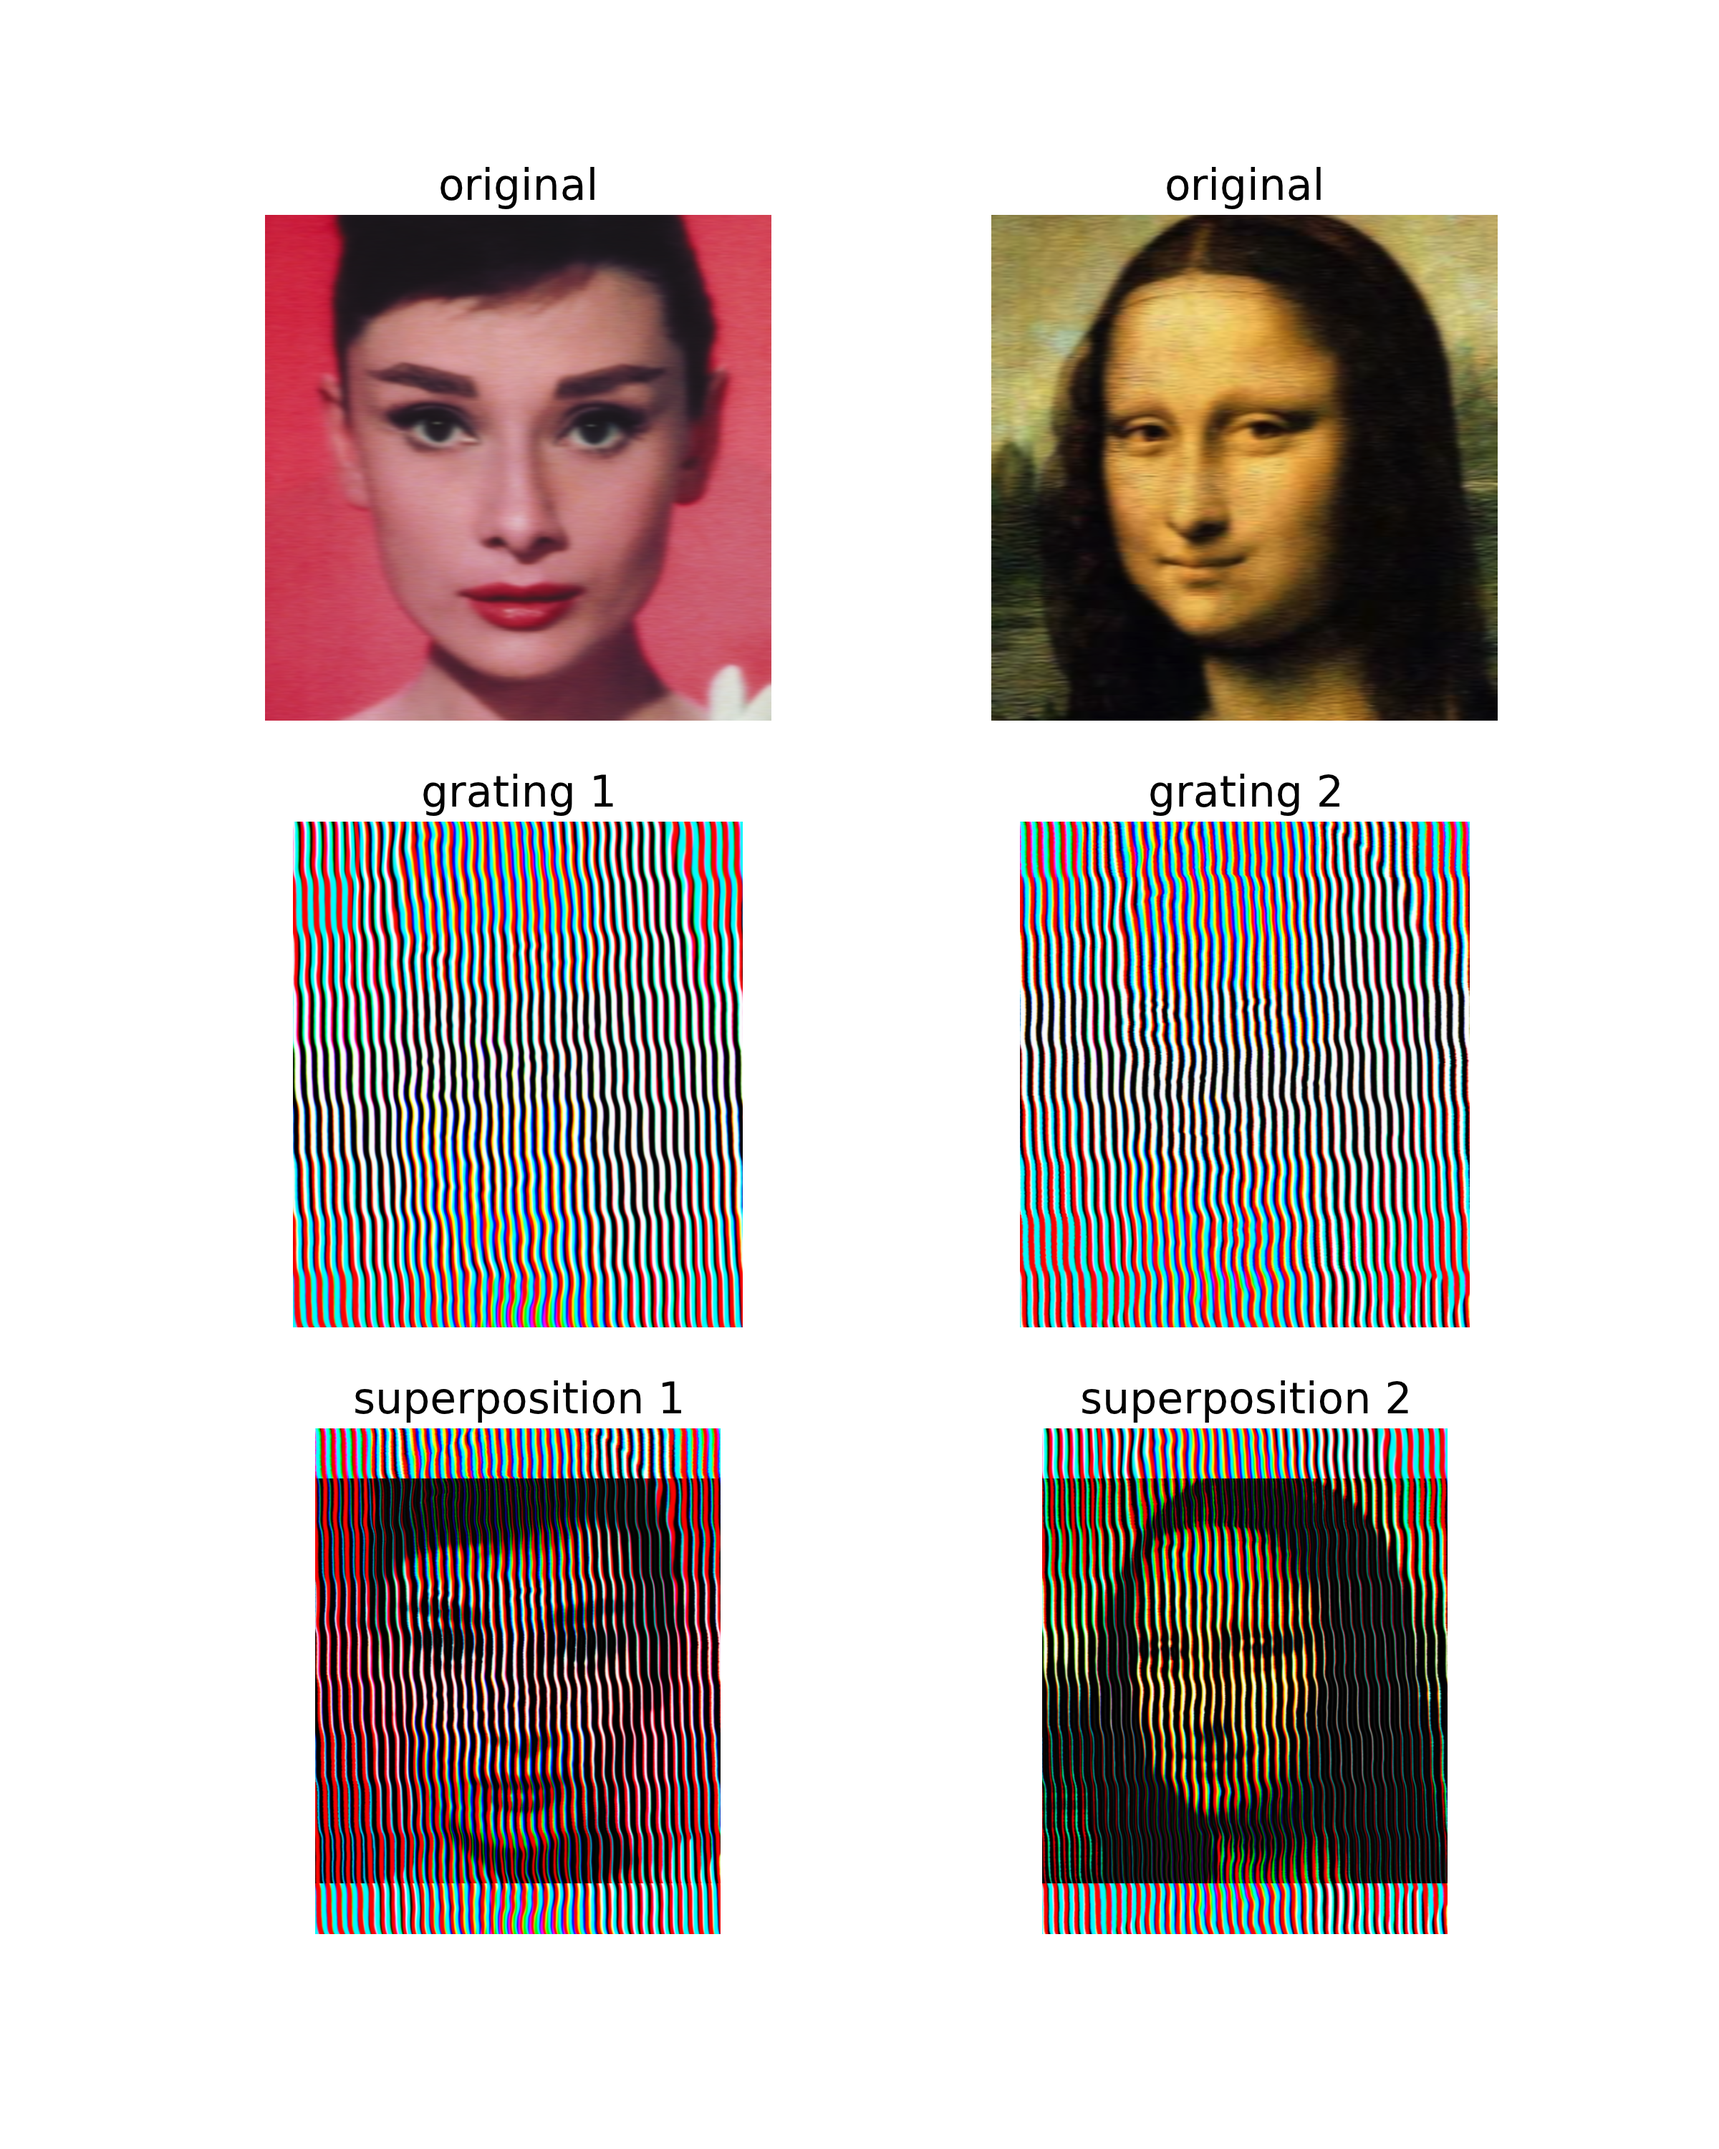
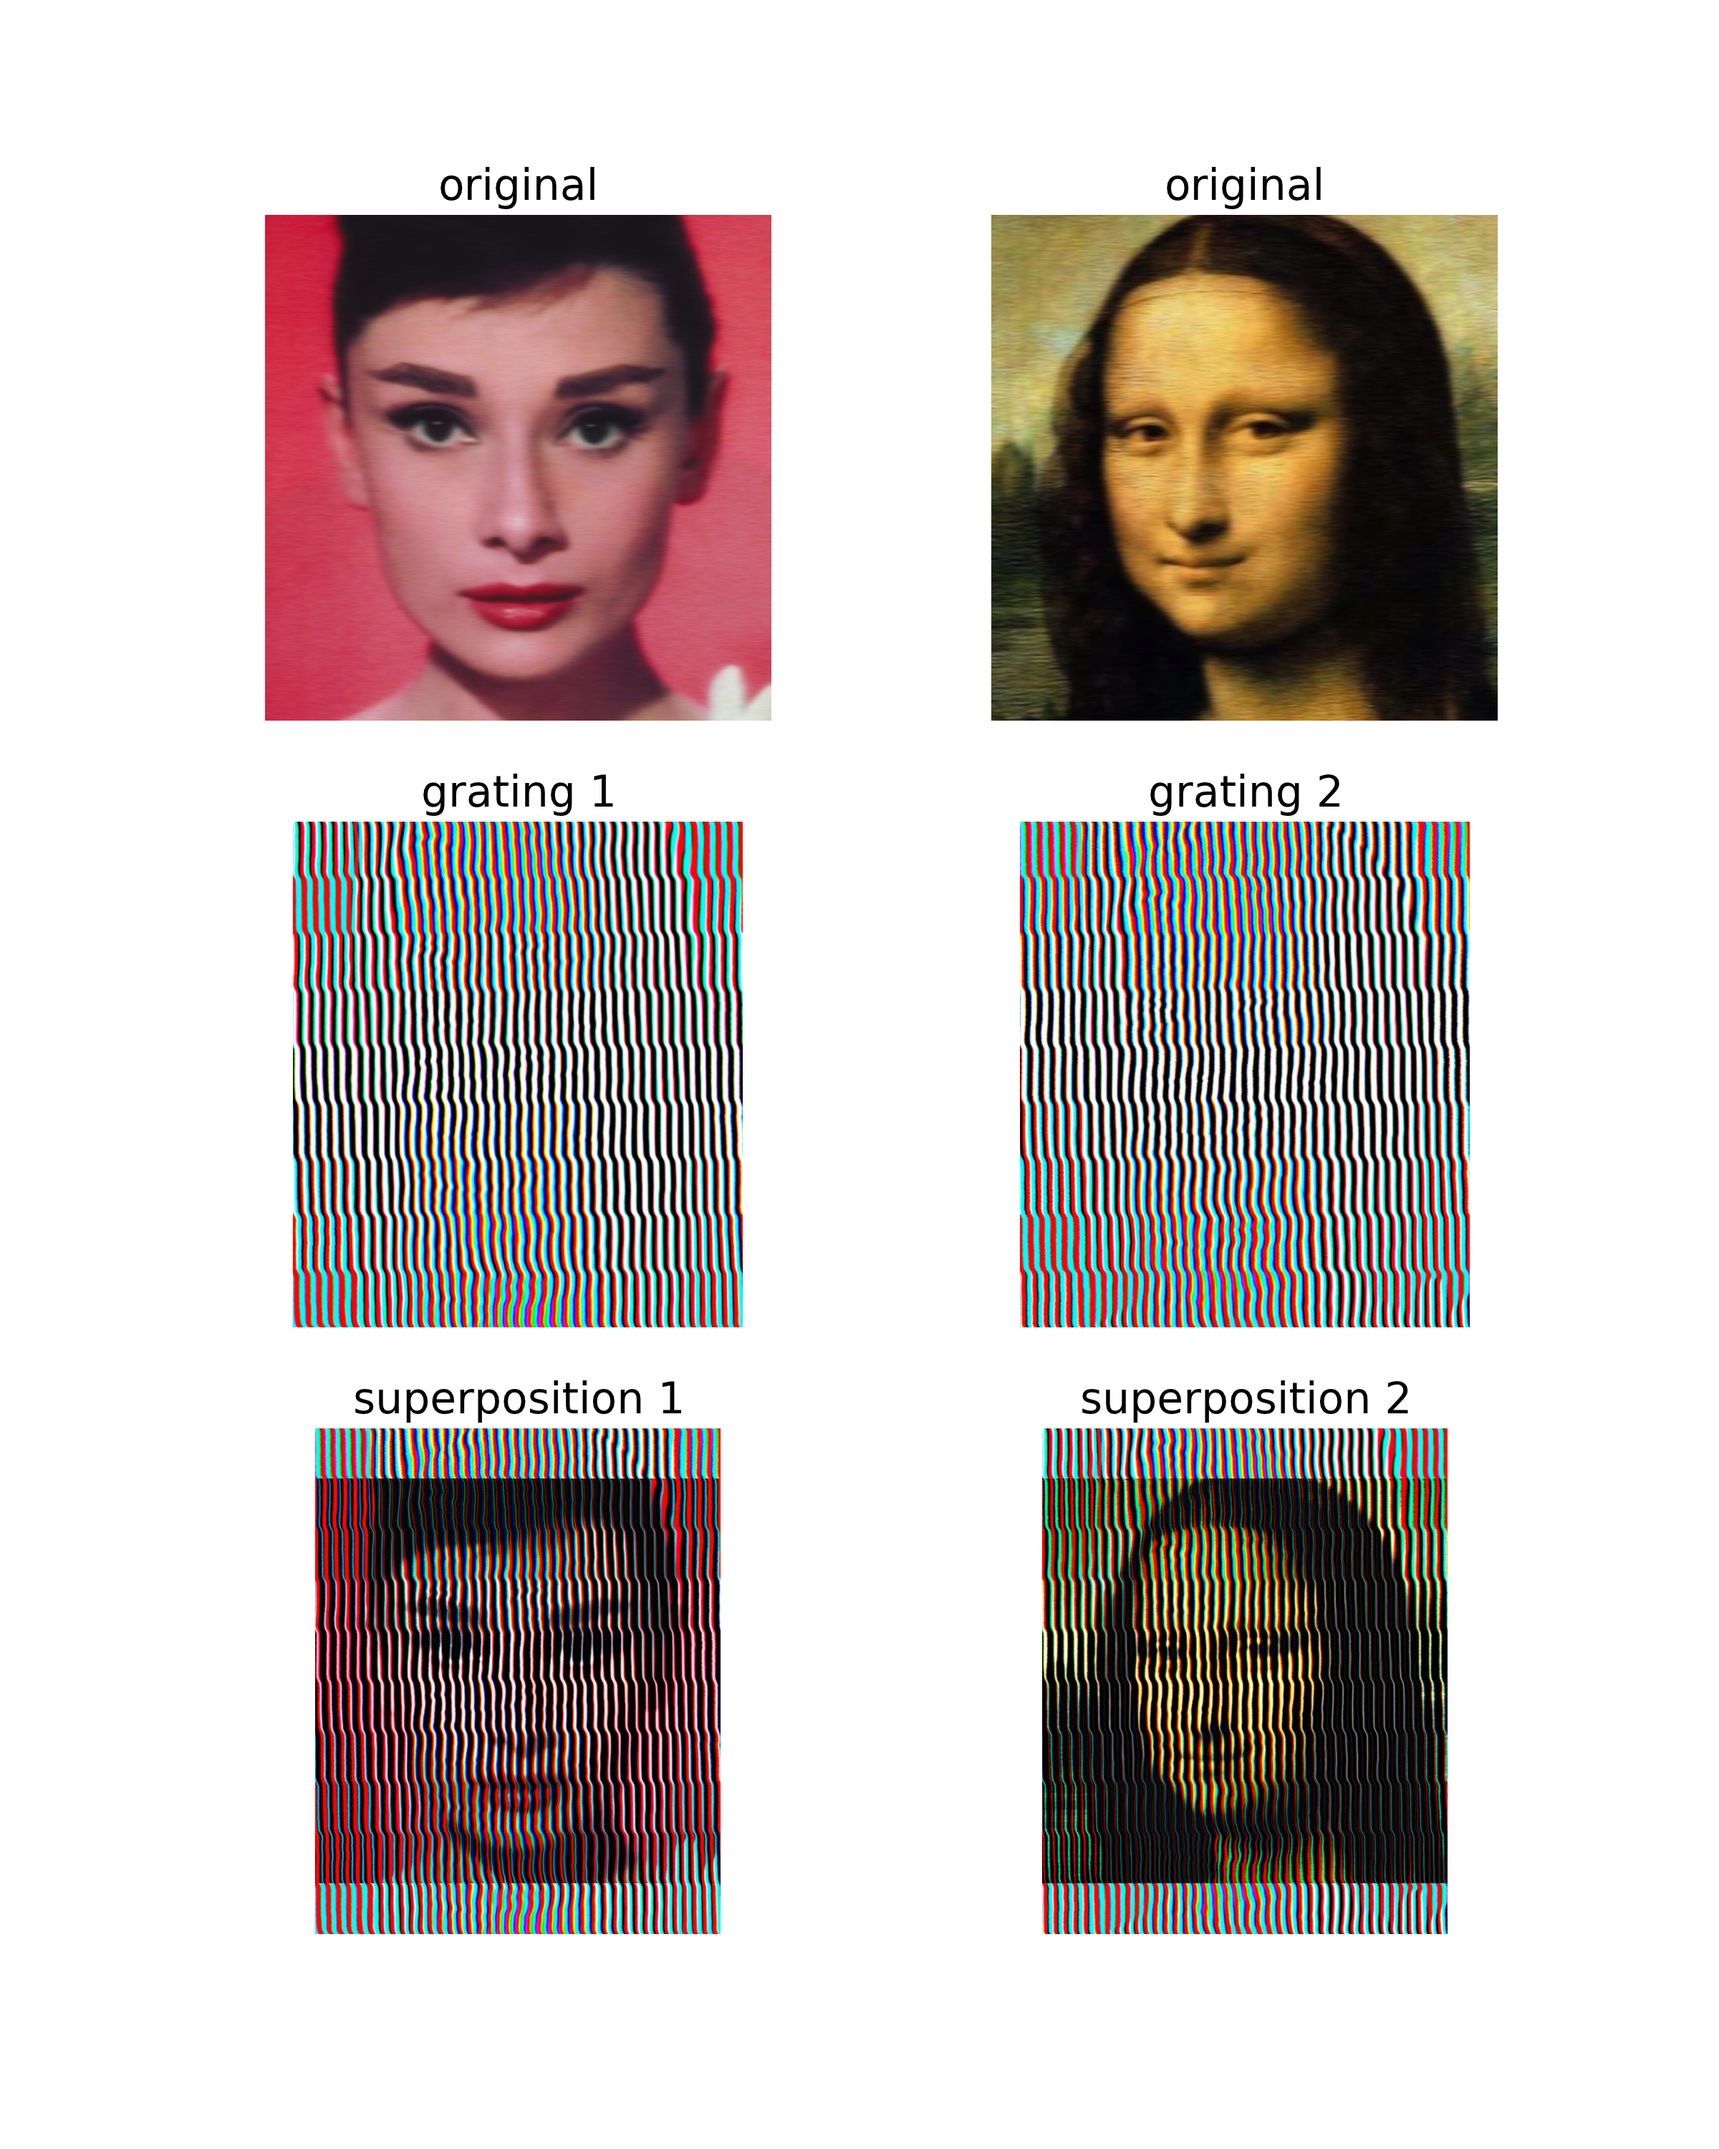
moved common functions to moirelib.py

diff --git a/moire2.py b/moire2.py
@@ -1,86 +1,59 @@
-import numpy as np
-import matplotlib.pyplot as mp
-import scipy.ndimage.filters as ndfilt
-import scipy.ndimage.interpolation as ndint
+"""
+Simple moire with two gratings encoding two color images
+"""
+import moirelib as m
 
-T = 1./40        # grating period as fraction of image width
-mag = 2          # image upsamping factor
-offset = 1./8    # superposition offset
-hsigma = T/4.     # sigma for gaussian smoothing along horizontal dimension
+T = 1./40  # grating period as fraction of image width
+offset = 1./8  # offset as a fraction of the image height
 
-def grating(phaseImage):
-    """ 
-    Convert phaseImage into grating image scaled between 0 and 1
-    """
-    return 1/(1+np.exp(5*np.cos(2*np.pi*phaseImage)))
+print 'Loading images...'
+img = (
+    m.prepImage('audrey', mag=4, sigma=(0,T/4,0)), 
+    m.prepImage('mona',   mag=4, sigma=(0,T/4,0))
+    )
+fig = m.figure(figsize=(8,10))
+m.show(img[0], 321, 'original')
+m.show(img[1], 322, 'original')
 
-
-def show(sub, img, title):
-    """
-    paste image in figure
-    """
-    mp.subplot(sub)
-    mp.imshow(img)
-    mp.axis('off')
-    mp.title(title)
-
-
-# load original images, smooth, upsample, and display
-img1 = mp.imread('./images/audrey512.png')
-img2 = mp.imread('./images/mona512.png')
-height, width, depth = img1.shape    # images are assumed to be equal in size
-img1 = ndfilt.gaussian_filter1d(img1, sigma=hsigma*width, axis=1)
-img2 = ndfilt.gaussian_filter1d(img2, sigma=hsigma*width, axis=1)
-img1 = ndint.zoom(img1,(mag,mag,1))
-img2 = ndint.zoom(img2,(mag,mag,1))
-
-fig = mp.figure(figsize=(8,10))
-show(321, img1, 'original')
-show(322, img2, 'original')
-
-# convert parameters to pixels
-height, width, depth = img1.shape
-T = round(T*width)  
-offset = round(offset*height)
-
-# carrier phase image: horizontal gradient with slope 1/T
-g1 = np.fromfunction(lambda y,x,d: x/T, (height+offset, width, depth))
+print 'generating gratings...'
+offset = round(offset*img[0].shape[0])  # convert to pixels
+dims = img[0].shape
+dims = (dims[0]+offset,dims[1],dims[2])
+g1 = m.makeCarrier(dims, T)
 g2 = g1.copy()
 
 # iterative adjustment of gratings to images
 L = 0.04       # learning rate
 niter = 501    # of iterations
-maxCurvature = 0.001/T  # controls grating smoothness
 
 for i in range(niter):
     if i % 25 == 0:
         print "iteration [%4d/%4d]" % (i, niter)
 
     # update gratings
-    err1 = (1-img1)/2 - (g1[:-offset,:,:] - g2[offset:,:,:])
-    err2 = (1-img2)/2 - (g2[:-offset,:,:] - g1[offset:,:,:])
+    err1 = (1-img[0])/2 - (g1[:-offset,:,:] - g2[offset:,:,:])
+    err2 = (1-img[1])/2 - (g2[:-offset,:,:] - g1[offset:,:,:])
     g1[:-offset,:,:] += L*err1
     g2[offset:,:,:] -= L*err1
     g2[:-offset,:,:] += L*err2
     g1[offset:,:,:] -= L*err2
 
     # enforce grating smoothness by clipping the laplacian
-    avg = (g1[2:,:,:]+g1[:-2,:,:])/2
-    g1[1:-1,:,:] = g1[1:-1,:,:].clip(avg-maxCurvature, avg+maxCurvature)
+    g1 = m.smoothenPhase(g1, 1e-4/T)
 
 print 'saving image...'
-g1 = grating(g1)
-g2 = grating(g2)
+g1 = m.makeGrating(g1)
+g2 = m.makeGrating(g2)
 
 # visualize gratings 
-show(323, g1, 'grating 1')
-show(324, g2, 'grating 2')
+m.show(g1, 323, 'grating 1')
+m.show(g2, 324, 'grating 2')
 
 # visualize superpositions
-e = np.ones((offset, width, depth))
-s1 = np.vstack((e, g1))*np.vstack((g2, e)) 
-s2 = np.vstack((e, g2))*np.vstack((g1, e))
-show(325, s1, 'superposition 1')
-show(326, s2, 'superposition 2')
+e = m.ones((offset, dims[1], dims[2]))
+s1 = m.vstack((e, g1))*m.vstack((g2, e)) 
+s2 = m.vstack((e, g2))*m.vstack((g1, e))
+m.show(s1, 325, 'superposition 1')
+m.show(s2, 326, 'superposition 2')
 
 fig.savefig('./results/moire2.png', dpi=300)

diff --git a/moire3.py b/moire3.py
@@ -1,53 +1,25 @@
-import numpy as np
-import matplotlib.pyplot as mp
-import scipy.ndimage.filters as ndfilt
-import scipy.ndimage.interpolation as ndint
+"""
+A simple moire encoding a single image with two identical gratings 
+"""
 
+import moirelib as m
 
-T = 1./40        # grating period as fraction of image width
-mag = 2          # image upsamping factor
+T = 1./40        # grating period
 offset = 1./8    # superposition offset
-hsigma = T/4     # sigma for gaussian smoothing along horizontal dimension
 
-
-def grating(phaseImage):
-    """ 
-    Convert phaseImage into grating image scaled between 0 and 1
-    """
-    return 1/(1+np.exp(5*np.cos(2*np.pi*phaseImage)))
-
-
-def show(sub, img, title):
-    """
-    display the image
-    """
-    mp.subplot(sub)
-    mp.imshow(img)
-    mp.axis('off')
-    mp.title(title)
-
-
-# load original image, smooth, upsample, and display
-img = mp.imread('./images/audrey512.png')
-height, width, depth = img.shape
-img = ndfilt.gaussian_filter1d(img, sigma=hsigma*width, axis=1)
-img = ndint.zoom(img,(mag,mag,1))
-
-fig = mp.figure(figsize=(8,10))
-show(311, img, 'original')
-
-# convert parameters to pixels
-height, width, depth = img.shape
-T = round(T*width)
-offset = round(offset*height)
+print 'pre-processing images...'
+img = m.prepImage('audrey', mag=4, sigma=(0,T/4., 0))
+fig = m.figure(figsize=(8,10))
+m.show(img, 311, 'original')
 
 # carrier phase image: horizontal gradient with slope 1/T
-g = np.fromfunction(lambda y,x,d: x/T, (height+offset,width,3))
+offset = round(offset*img.shape[0])  # convert to pixels
+dims = (img.shape[0]+offset, img.shape[1], img.shape[2])
+g = m.makeCarrier(dims, T)
 
-# iterative adjustment of gratings to images
+print 'computing gratings...'
 L = 0.04    # learning rate
 niter = 501   # of iterations
-maxCurvature = 0.001/T
 
 for i in range(niter):
     if i % 25 == 0:
@@ -57,20 +29,17 @@ for i in range(niter):
     err = (1-img)/2 - (g[0:-offset,:,:] - g[offset:,:,:])
     g[0:-offset,:,:] += L*err
     g[offset:,:,:]   -= L*err
-
-    # enforce grating smoothness by clipping the laplacian
-    avg = (g[2:,:,:]+g[:-2,:,:])/2
-    g[1:-1,:,:] = g[1:-1,:,:].clip(avg-maxCurvature, avg+maxCurvature)
+    g = m.smoothenPhase(g, 1e-4/T)
 
 print 'saving image...'
-g = grating(g)
+g = m.makeGrating(g)
 
 # visualize gratings 
-show(312, g, 'grating')
+m.show(g, 312, 'grating')
 
 # visualize superpositions
-e = np.ones((offset, width, depth))
-s = np.vstack((e, g))*np.vstack((g, e)) 
-show(313, s, 'superposition')
+e = m.ones((offset, img.shape[1], img.shape[2]))
+s = m.vstack((e, g))*m.vstack((g, e)) 
+m.show(s, 313, 'superposition')
 
 fig.savefig('./results/moire3.png', dpi=300)

diff --git a/moire1.py b/moire1.py
@@ -1,59 +1,31 @@
-import numpy as np
-import matplotlib.pyplot as mp
-import scipy.ndimage.filters as ndfilt
-import scipy.ndimage.interpolation as ndint
+"""
+Simple moire with a single color image
+"""
 
-T = 1./40        # grating period as fraction of image width
-mag = 2          # image upsamping factor
-hsigma = T/4.   # sigma for gaussian smoothing along horizontal dimension
+import moirelib as m
 
-def grating(phaseImage):
-    """
-    Convert phaseImage into grating image scaled between 0 and 1
-    """
-    return 1/(1+np.exp(5*np.cos(2*np.pi*phaseImage)))
+T = 1./40        # grating period
 
-def show(sub, img, title):
-    """
-    paste image in figure
-    """
-    mp.subplot(sub)
-    mp.imshow(img)
-    mp.axis('off')
-    mp.title(title)
-
-# load image and magnify
 print 'pre-processing images...'
-img = mp.imread('./images/audrey512.png')
-img = ndint.zoom(img, (mag, mag, 1))
-T = T*img.shape[1]   # convert to pixels
-img = ndfilt.gaussian_filter1d(img, sigma=hsigma*img.shape[1], axis=1)
+img = m.prepImage('audrey', mag=2, sigma=(0,T/4., 0))
+fig = m.figure(figsize=(8,10))
+m.show(img, 311, 'original')
 
-fig = mp.figure(figsize=(8,10))
-show(311, img, 'original')
-
-# generate gratings
 print 'generating gratings...'
-carrier = np.fromfunction(lambda y,x,d: x/T, img.shape) 
+carrier = m.makeCarrier(img.shape, T)
 g1 = carrier-(1-img)/4
 g2 = carrier+(1-img)/4
 
-# enforce grating smoothness by clipping the laplacian
-print 'smoothing...'
-maxCurvature = 1e-3/T
-for i in range(100):
-    avg = (g1[2:,:,:]+g1[:-2,:,:])/2
-    g1[1:-1,:,:] = g1[1:-1,:,:].clip(avg-maxCurvature, avg+maxCurvature)
-    avg = (g2[2:,:,:]+g2[:-2,:,:])/2
-    g2[1:-1,:,:] = g2[1:-1,:,:].clip(avg-maxCurvature, avg+maxCurvature)
+print 'smoothing phase...'
+g1 = m.smoothenPhase(g1, 1e-3/T, 50)
+g2 = m.smoothenPhase(g2, 1e-3/T, 50)
 
-g1 = grating(g1)
-g2 = grating(g2)
-
-# visualize gratings and their superposition
 print 'saving images...'
-show(323, g1, 'grating 1')
-show(324, g2, 'grating 2')
-show(313, g1*g2, 'superposition')
+g1 = m.makeGrating(g1)
+g2 = m.makeGrating(g2)
+m.show(g1,323, 'grating 1')
+m.show(g2,324, 'grating 2')
+m.show(g1*g2, 313, 'superposition')
 
 fig.savefig('./results/moire1.png', dpi=300)
+

diff --git a/moirelib.py b/moirelib.py
@@ -1,0 +1,79 @@
+from numpy import *
+from matplotlib.pyplot import *
+import scipy.ndimage.filters as filters
+import scipy.ndimage.interpolation as interpolation
+
+
+def prepImage(name='audrey', mag=4, sigma=(0,1./40,0)):
+    """
+    read image, smooth with specified sigma, and magnify
+
+    Inputs:
+        name - filname or one of {'audrey','mona','lenna','einstein'}
+        mag - upsample factor
+        sigma - gaussian smoothing in each dimension as fraction of image width
+    """
+
+    try:
+        path = dict( 
+            audrey = './images/audrey512.png',
+            mona   = './images/mona512.png',
+            lenna =  './images/Lenna.png',
+            einstein = './images/einstein512.png'
+        )[name]
+    except KeyError:
+        path = name
+
+    img = imread(path)
+    img = filters.gaussian_filter(img, sigma=[x*img.shape[1] for x in sigma])
+    img = interpolation.zoom(img, (mag,mag,1)) 
+    return img
+
+
+
+def makeGrating(phaseImage):
+    """ 
+    Convert phaseImage into grating image scaled between 0 and 1
+    """
+    return 1/(1+exp(5*cos(2*pi*phaseImage)))
+
+
+
+def show(img, sub=111, plotTitle=''):
+    """
+    paste image in figure
+    """
+    subplot(sub)
+    imshow(img)
+    axis('off')
+    title(plotTitle)
+
+
+
+def makeCarrier(dims=(800,600,3), period=1./20, axis=1, type='uniform'):
+    """
+    make the carrier phase image  
+    INPUTS:
+        dims - dimensions in pixels (y,x), or (y,x,3)
+        period - grating period as fraction of dims[1]
+        axis - 0=horizontal, 1=vertical grating
+        type - only 'uniform' for now
+    """
+    if type=='uniform':
+        g = fromfunction(lambda y,x,d: x/float64(period)/dims[1], dims)
+    else:
+        raise Exception('unknown carrier type') 
+    return g
+
+
+
+def smoothenPhase(img, maxLaplacian, niter=1):
+    """
+    enforce grating smoothness by clipping the laplacian
+    of the phase image
+    """
+    lim = maxLaplacian/img.shape[1]
+    for i in range(niter):
+        avg = (img[2:,:,:]+img[:-2,:,:])/2
+        img[1:-1,:,:] = img[1:-1,:,:].clip(avg-lim, avg+lim)
+    return img
